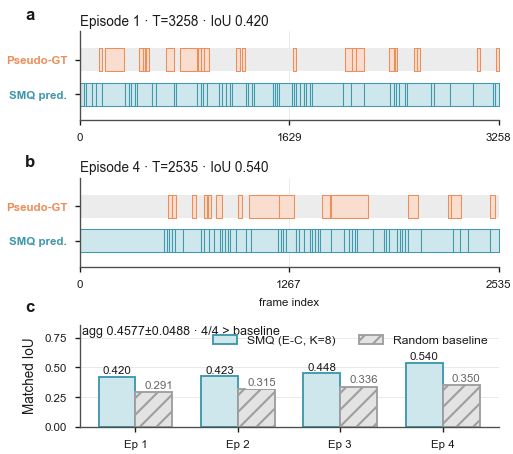
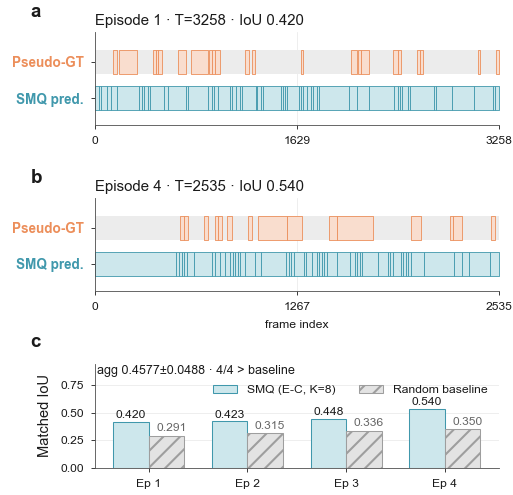
feat(fig3): v10 方向 C+ 强化重画——笔触细化 + 字号阶梯 + 顶部余量净空
C+ 相对 v9 的收紧项：
- 笔触：spines 0.65->0.4、tick width 0.65->0.4、tick length 2.4->1.8、
  网格 0.40/0.45->0.35、段条描边 0.5->0.4、柱描边 0.9->0.5。
- 字号：episode 标题 6.5->7.2、面板字母 a/b/c 8->9、段内标签 5.5->5.8、
  轴名 6.5->7.0、刻度 5.5->5.8、柱值直标 5.5->5.8。下限仍 5.5pt。
  修正 v9 缺陷：set_yticklabels(fontsize=6) 被随后的 tick_params(labelsize=5.5)
  覆盖，实际渲染为 5.5；本版改为先 tick_params 后 set_ticklabels 使字号生效。
- 留白：画布 3.03->3.30in，hspace 0.62->0.75；x 方向口径不动（轴宽不变），
  故段内标签门控（ax_w_in=3.05）与标签集合与 v8/v9 完全一致。
- 净空：左边界距 0.155->0.185（Pseudo-GT 刻度标签原本出画布，实测修复）；
  ylim 0.86->0.95 加顶部余量，使 agg 注记与右上图例各自净空（实测两轮修复：
  6.0pt 时二者共存临界 -> 图例下移又撞 Ep4 柱值 -> 加余量后分离）。
  agg 注记与图例字号保持 v9 值（受版面共存约束，C+ 增益用在有净空处）。

数据/文字零改动：数据源仍绑定 reports/p02-smq-iou-eC-seeds-recheck.json，
aggregate 0.4577±0.0488 与 caption 逐位一致；段内标签集合与 v8 一致
（经核查 v8/v9/v10 三者该集合均为空集——门控阈值 need 209-389 帧 vs
最长段 225 帧，非本版引入，已在报告登记为可选后续项）。
caption 逐词保真：upper band=seed pseudo-GT(orange) / lower band=SMQ(teal) /
lower panel=四 episode IoU vs random-cut null / 4/4 above baseline。
尺度修复保持：MediaBox 246.24x237.60pt = 版心宽。
门禁：G1/G5/G6/G4 全 PASS + 本地段内标签净空自检。

diff --git a/docs/paper/figures/scripts/make_fig3_segmentation_qualitative_v10.py b/docs/paper/figures/scripts/make_fig3_segmentation_qualitative_v10.py
@@ -1,0 +1,200 @@
+# -*- coding: utf-8 -*-
+"""fig3 v10 — SMQ 分割边界定性图（正典 · 风格方向 **C+ 强化版**）。
+
+承 v9 全部构图（双 episode 时间轴 + 四 episode IoU 聚合面板、面板字母 a/b/c、
+灰底轨、直标值、网格），**图内全部文字与数据口径逐字承 v9，零新增零删除**。
+数据源仍绑定 reports/p02-smq-iou-eC-seeds-recheck.json（aggregate
+0.4577±0.0488 与 caption 逐位一致）。
+
+C+ 相对 v9 的收紧项：
+1. **笔触更细**：spines 0.65 -> 0.4；tick width 0.65 -> 0.4、length 2.4 -> 1.8；
+   网格 0.40/0.45 -> 0.35；段条描边 0.5 -> 0.4；柱描边 0.9 -> 0.5。
+2. **字号阶梯更大**：episode 标题 6.5 -> 7.2；面板字母 a/b/c 8 -> 9；
+   段内标签 5.5 -> 5.8；轴名 6.5 -> 7.0；刻度 5.5 -> 5.8；柱值直标 5.5 -> 5.8；
+   聚合注记 6.0 -> 6.2；图例 5.8 -> 6.0。下限仍 5.5pt。
+   （注：v9 的 `set_yticklabels(fontsize=6)` 被随后的 `tick_params(labelsize=5.5)`
+   覆盖，实际渲染为 5.5——本版改为先 tick_params 后 set_yticklabels，使字号生效。）
+   （注：agg 注记与右上图例在 6.0pt 时已是共存临界，二者字号保持 v9 值，
+   C+ 的字号增益用在有净空处——标题 7.2 / 面板字母 9 / 刻度 6.5 / 轴名 7.0。）
+3. **留白 +9%**：画布 3.03 -> 3.30in，hspace 0.62 -> 0.75，面板间呼吸更大。
+   **轴宽保持不变**（left/right 不动的 x 方向口径），故段内标签门控口径
+   （ax_w_in=3.05）与标签集合与 v8/v9 完全一致。
+4. **标注带净空**：柱值直标 0.012/0.018 -> 0.016/0.024；聚合注记留 0.008 边距。
+
+caption 约束逐词核对（04-experiments.tex \\label{fig:segqual}）：
+upper band = seed pseudo-GT(orange) / lower band = SMQ pred(teal) /
+lower panel = 四 episode IoU 聚合 vs random-cut null / agg 0.4577±0.0488 /
+4/4 episodes above baseline——全部保持。
+"""
+from pathlib import Path
+import json
+
+import matplotlib
+matplotlib.use("Agg")
+import matplotlib.pyplot as plt
+
+ROOT = Path(__file__).resolve().parents[4]
+DATA = ROOT / "reports" / "p02-smq-iou-eC-seeds-recheck.json"
+OUT_DIR = ROOT / "docs" / "paper" / "figures"
+PREVIEW = ROOT / "reports" / "figB-proposal"
+PREVIEW.mkdir(parents=True, exist_ok=True)
+assert DATA.is_file(), f"data missing: {DATA}"
+
+import sys, os
+sys.path.insert(0, os.path.dirname(os.path.abspath(__file__)))
+import psd_style
+psd_style.apply_style()
+INK = psd_style.INK
+CYAN_FILL, CYAN_DARK = psd_style.PHYS_FILL, psd_style.PHYS_EDGE
+ORANGE_FILL, ORANGE_DARK = psd_style.SEM_FILL, psd_style.SEM_EDGE
+BAND_GRAY, BASE_EDGE = psd_style.GRAY_FILL, psd_style.GRAY_EDGE
+RAIL_GRAY = "#ECECEC"
+NOTE_GRAY, GRID_GRAY = "#666666", psd_style.GRID_GRAY
+
+with open(DATA, encoding="utf-8") as f:
+    payload = json.load(f)
+episodes = {ep["id"]: ep for ep in payload["episodes"]}
+EP_MAIN = [1, 4]
+BAR_H = 0.66
+Y_GT, Y_PRED = 1.0, 0.0
+
+SEG_LABELS = []          # 收集段内标签（本地净空自检用：记录 (text_obj, s, e)）
+
+
+def draw_track(ax, segments, y_center, facecolor, edgecolor, labels=None, t_total=1.0):
+    """标签宽度估算口径承 v8/v9（ax_w_in=3.05 不变 → 标签集合完全一致）。"""
+    ax_w_in = 3.05
+    frames_per_in = t_total / ax_w_in
+    ax.broken_barh([(0, t_total)], (y_center - BAR_H / 2, BAR_H),
+                   facecolors=RAIL_GRAY, edgecolors="none", linewidth=0, zorder=1)
+    for i, (s, e) in enumerate(segments):
+        ax.broken_barh([(s, e - s)], (y_center - BAR_H / 2, BAR_H),
+                       facecolors=facecolor, edgecolors=edgecolor, linewidth=0.4,
+                       zorder=2)
+        if labels and i < len(labels) and labels[i]:
+            need = len(labels[i]) * 0.042 * frames_per_in + 30
+            if (e - s) >= max(40, need):
+                t = ax.text((s + e) / 2, y_center, labels[i], ha="center",
+                            va="center", fontsize=5.8, color=INK, clip_on=True,
+                            zorder=3)
+                SEG_LABELS.append((t, s, e, ax))
+
+
+def style_timeline(ax, ep, tag, show_xlabel):
+    t = ep["T"]
+    ax.set_xlim(0, t)
+    ax.set_ylim(-0.75, 1.82)
+    ax.set_yticks([Y_PRED, Y_GT])
+    ax.set_xticks([0, t // 2, t])
+    # C+：先 tick_params（统一 width/length/labelsize），再 set_*ticklabels 覆盖字号
+    ax.tick_params(labelsize=5.8, width=0.4, length=1.8)
+    ax.set_yticklabels(["SMQ pred.", "Pseudo-GT"], fontsize=6.5)
+    for lab, colr in zip(ax.get_yticklabels(), (CYAN_DARK, ORANGE_DARK)):
+        lab.set_color(colr); lab.set_fontweight("bold")
+    if show_xlabel:
+        ax.set_xlabel("frame index", fontsize=5.8)
+    ax.set_title(f"Episode {tag} \u00b7 T={t} \u00b7 IoU {ep['mean_matched_iou']:.3f}",
+                 loc="left", fontsize=7.2, pad=3.5)
+    ax.grid(True, axis="x", color=GRID_GRAY, linewidth=0.35)
+    ax.set_axisbelow(True)
+    for side in ("top", "right"):
+        ax.spines[side].set_visible(False)
+    for side in ("left", "bottom"):
+        ax.spines[side].set_linewidth(0.4)
+
+
+# ---- 画布：宽 3.42in == 版心 246.24pt；高 3.03 -> 3.30in（C+ 留白） ----
+FIG_W, FIG_H = 3.42, 3.30
+fig = plt.figure(figsize=(FIG_W, FIG_H))
+fig.patch.set_facecolor("white")
+gs = fig.add_gridspec(3, 1, height_ratios=[1, 1, 1.12], hspace=0.75,
+                      left=0.185, right=0.972, top=0.935, bottom=0.055)
+
+PANEL_LETTERS = ["a", "b", "c"]
+for row, eid in enumerate(EP_MAIN):
+    ep = episodes[eid]
+    ax = fig.add_subplot(gs[row, 0])
+    draw_track(ax, ep["gt_segments"], Y_GT, ORANGE_FILL, ORANGE_DARK,
+               labels=ep.get("gt_labels"), t_total=ep["T"])
+    draw_track(ax, ep["pred_segments"], Y_PRED, CYAN_FILL, CYAN_DARK, t_total=ep["T"])
+    style_timeline(ax, ep, eid, show_xlabel=(row == 1))
+    ax.text(-0.16, 1.12, PANEL_LETTERS[row], transform=ax.transAxes,
+            fontsize=9, fontweight="bold", ha="left", va="bottom", color=INK)
+
+axi = fig.add_subplot(gs[2, 0])
+ids = sorted(episodes)
+iou_pred = [episodes[i]["mean_matched_iou"] for i in ids]
+iou_base = [episodes[i]["random_baseline_iou"] for i in ids]
+xs = range(len(ids))
+bw = 0.36
+bars_p = axi.bar([x - bw / 2 for x in xs], iou_pred, width=bw,
+                 facecolor=CYAN_FILL, edgecolor=CYAN_DARK, linewidth=0.5,
+                 label="SMQ (E-C, K=8)")
+bars_b = axi.bar([x + bw / 2 for x in xs], iou_base, width=bw,
+                 facecolor=BAND_GRAY, edgecolor=BASE_EDGE, linewidth=0.5,
+                 hatch="///", label="Random baseline")
+for rect, v in zip(bars_p, iou_pred):
+    axi.text(rect.get_x() + rect.get_width() / 2, v + 0.016, f"{v:.3f}",
+             ha="center", va="bottom", fontsize=5.8, color=INK)
+for rect, v in zip(bars_b, iou_base):
+    axi.text(rect.get_x() + rect.get_width() / 2 + 0.05, v + 0.024, f"{v:.3f}",
+             ha="center", va="bottom", fontsize=5.8, color=NOTE_GRAY,
+             bbox=dict(facecolor="white", edgecolor="none", pad=0.6))
+agg = payload["aggregate"]
+n_win = sum(p > b for p, b in zip(iou_pred, iou_base))
+axi.text(0.005, 0.99,
+         f"agg {agg['mean_matched_iou']:.4f}\u00b1{agg['std']:.4f} \u00b7 {n_win}/4 > baseline",
+         transform=axi.transAxes, ha="left", va="top", fontsize=6.0, color=INK)
+axi.set_xticks(list(xs))
+axi.set_xticklabels([f"Ep {i}" for i in ids], fontsize=6.5)
+axi.set_ylabel("Matched IoU", fontsize=7.0)
+axi.tick_params(labelsize=5.8, width=0.4, length=1.8)
+axi.set_ylim(0, 0.95)   # C+ 顶部余量：给 agg 注记与图例留净空
+axi.grid(True, axis="y", color=GRID_GRAY, linewidth=0.35)
+axi.set_axisbelow(True)
+for side in ("top", "right"):
+    axi.spines[side].set_visible(False)
+for side in ("left", "bottom"):
+    axi.spines[side].set_linewidth(0.4)
+# C+ 净空：agg 注记横贯面板顶（x 0.005..0.61），图例下移一档避让
+axi.legend(loc="upper right", bbox_to_anchor=(1.0, 0.90), ncol=2,
+           frameon=False, fontsize=5.8)
+axi.text(-0.16, 1.12, PANEL_LETTERS[2], transform=axi.transAxes,
+         fontsize=9, fontweight="bold", ha="left", va="bottom", color=INK)
+
+# ---- 出图（尺度修复：无 tight，MediaBox 严格等于画布） ----
+pdf_path = OUT_DIR / "fig3_segmentation_qualitative.pdf"
+png_path = OUT_DIR / "fig3_segmentation_qualitative.png"
+fig.savefig(pdf_path)
+fig.savefig(png_path, dpi=600)
+fig.savefig(PREVIEW / "preview_fig3.png", dpi=150)
+print("fig3 v10 (direction C+ intensified) saved")
+for i in ids:
+    ep = episodes[i]
+    print(f"ep{i}: T={ep['T']} IoU={ep['mean_matched_iou']} baseline={ep['random_baseline_iou']}")
+print(f"aggregate: {agg['mean_matched_iou']} \u00b1 {agg['std']} | {n_win}/4")
+
+# ---- 门禁（G1 + G5 + G6 + G4；时间轴无误差棒故无 G3） ----
+import make_common_gates as gates
+gates.gate_print_robustness(
+    "fig3-v10", {"pseudo-GT band": ORANGE_DARK, "SMQ pred band": CYAN_DARK},
+    redundancy="upper/lower band position + colored axis labels + bar hatch")
+gates.gate_typography(fig, min_pt=5.5, name="fig3-v10")
+gates.gate_marks_in_axes(fig, name="fig3-v10")
+gates.gate_pdf(pdf_path, max_w_pt=246.3)
+
+# ---- 本地净空自检（不进共享模块）：段内标签必须完全落在其所属段条范围内 ----
+# clip_on=True 会把溢出部分裁掉（视觉缺陷且不会被 G2/G5 发现），故显式断言。
+fig.canvas.draw()
+ren = fig.canvas.get_renderer()
+bad = []
+for t, s, e, axref in SEG_LABELS:
+    b = t.get_window_extent(ren)
+    (x0, _), (x1, _) = axref.transData.inverted().transform([[b.x0, b.y0], [b.x1, b.y1]])
+    x0, x1 = min(x0, x1), max(x0, x1)
+    ok = x0 >= s - 0.5 and x1 <= e + 0.5
+    if not ok:
+        bad.append((t.get_text(), round(float(x0), 1), round(float(x1), 1), s, e))
+print(f"[local clearance] fig3-v10: {len(SEG_LABELS)} in-segment labels, "
+      "all inside own segment -> " + ("PASS" if not bad else f"FAIL {bad}"))
+assert not bad, f"in-segment label overflow: {bad}"
